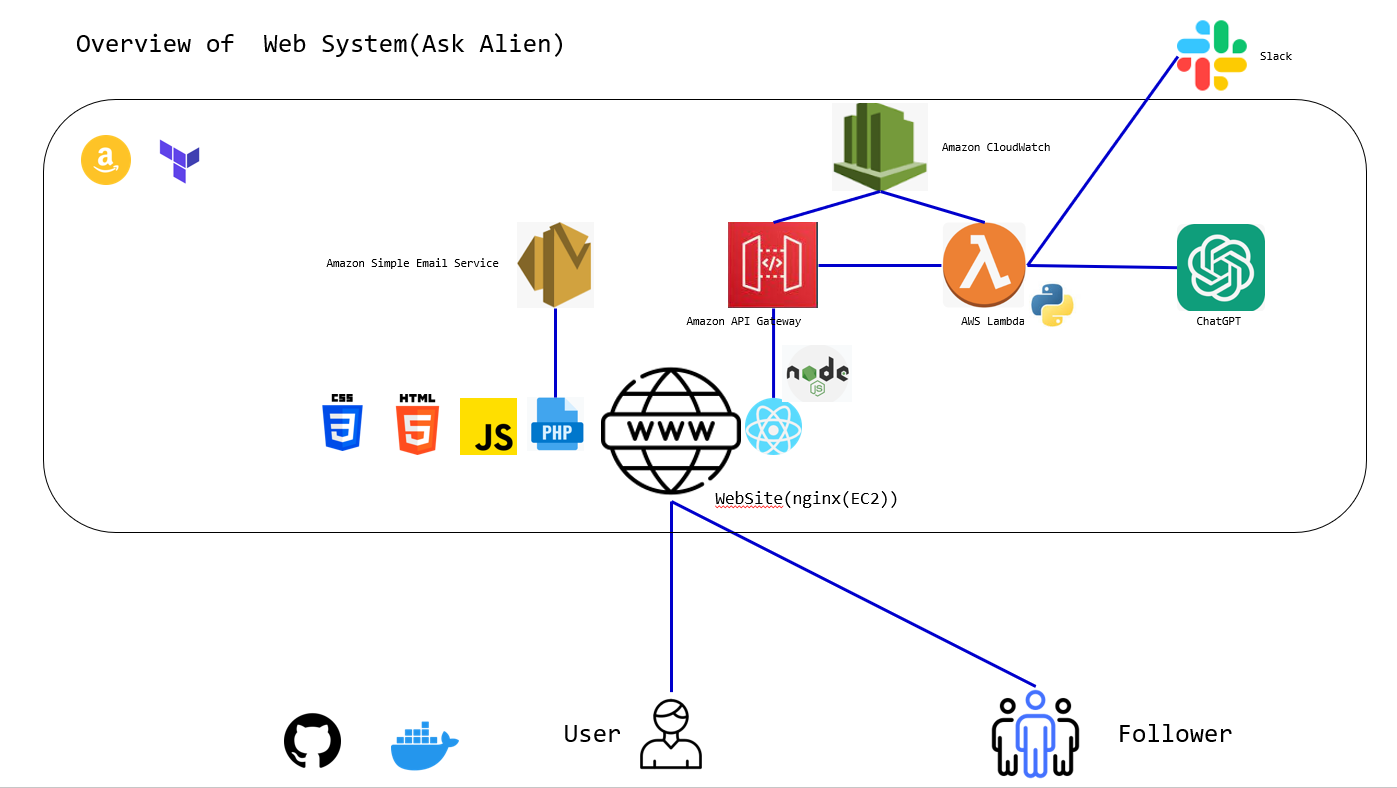
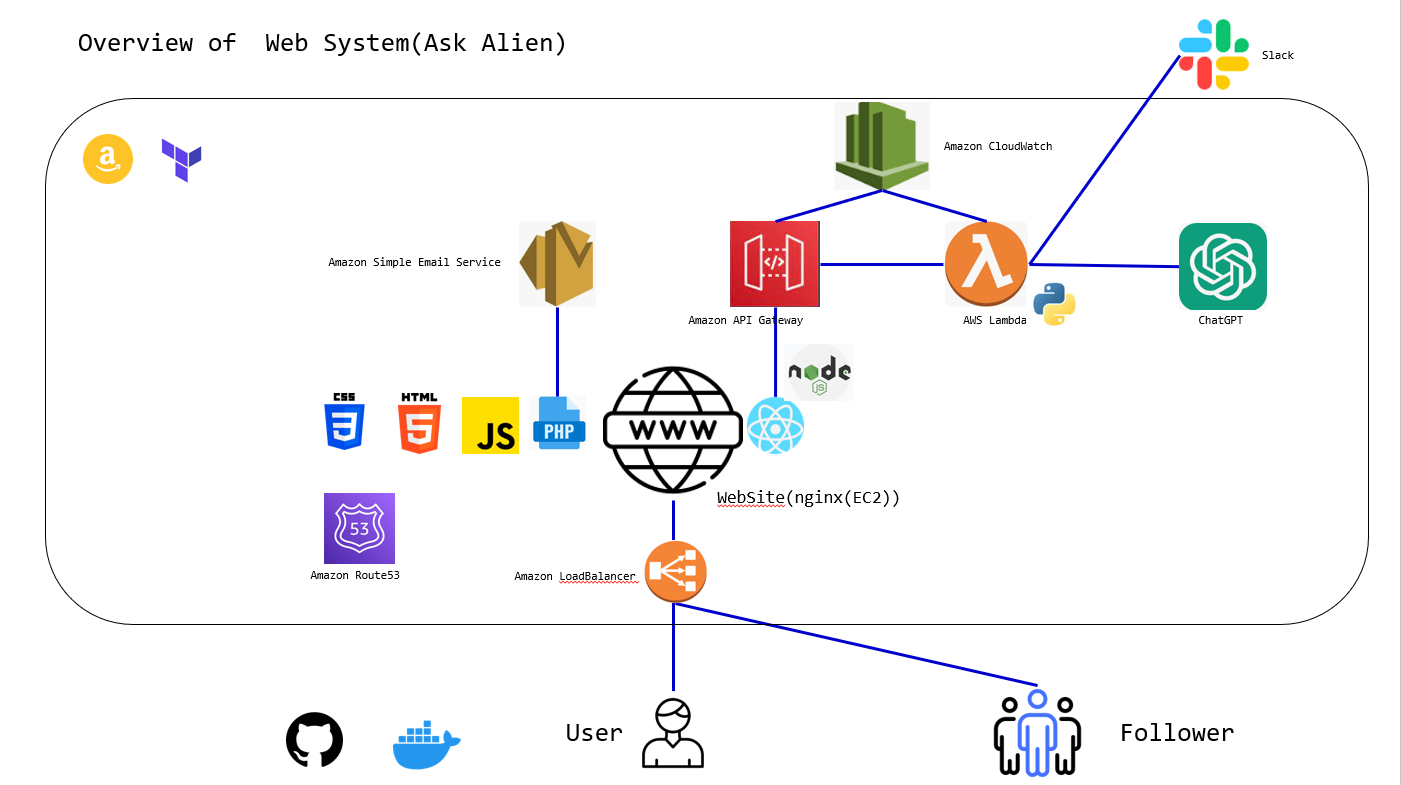
324

diff --git a/index.html b/index.html
@@ -162,7 +162,7 @@
             </tr>
             <tr>
                 <th>環境／クラウド</th>
-                <td>AWS(VPC, EC2, SES, IAM, API Gateway, Lambda、Cloudwatch、S3、VPC Endpoint)</td>
+                <td>AWS(VPC, EC2, SES, IAM, API Gateway, Lambda、Cloudwatch、S3、VPC Endpoint、Route53、LoadBalancer)</td>
             </tr>
             <tr>
                 <th>ツール／その他</th>
